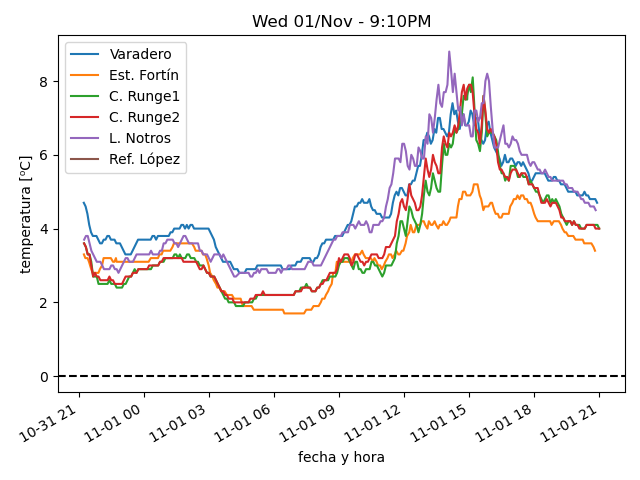
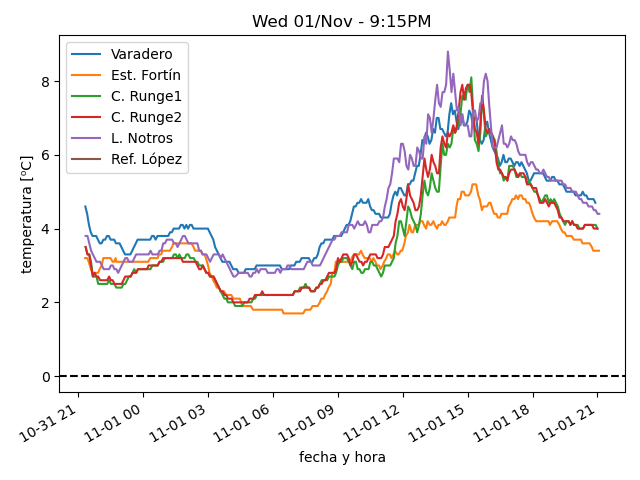
actualiza datos

diff --git a/estaciones/estacion2.html b/estaciones/estacion2.html
@@ -18,7 +18,7 @@
     </tr>
     <tr>
      <td class="stats_data">
-      8:48PM
+      9:04PM
      </td>
     </tr>
     <tr>
@@ -28,12 +28,12 @@
     </tr>
     <tr>
      <td class="stats_data">
-      1.6⁰C
+      1.7⁰C
      </td>
     </tr>
     <tr>
      <td class="stats_data">
-      88.0%
+      88.3%
      </td>
     </tr>
     <tr>
@@ -43,7 +43,7 @@
     </tr>
     <tr>
      <td class="stats_data">
-      1.6/3.2 km/hr ESE
+      1.1/2.7 km/hr ESE
      </td>
     </tr>
     <tr>

diff --git a/estaciones/estacion5.html b/estaciones/estacion5.html
@@ -18,17 +18,17 @@
     </tr>
     <tr>
      <td class="stats_data">
-      8:50PM
+      9:05PM
      </td>
     </tr>
     <tr>
      <td class="stats_data">
-      4.5⁰C
+      4.4⁰C
      </td>
     </tr>
     <tr>
      <td class="stats_data">
-      2.1⁰C
+      2.0⁰C
      </td>
     </tr>
     <tr>
@@ -38,7 +38,7 @@
     </tr>
     <tr>
      <td class="stats_data">
-      1026.11hPa
+      1026.35hPa
      </td>
     </tr>
     <tr>
